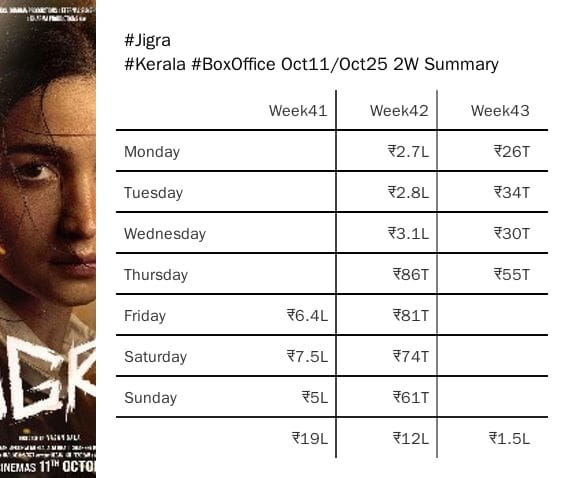
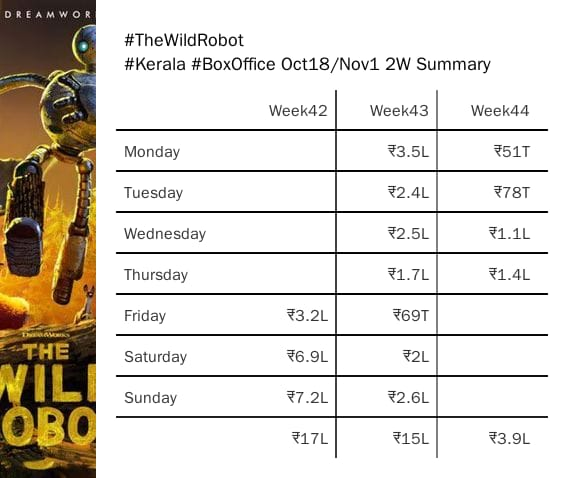
after the-wild-robot summary

diff --git a/weekly.individual.js b/weekly.individual.js
@@ -21,11 +21,11 @@ const collageItemWidth = 96;
 
 (async () => {
   const group = undefined; // []
-  const name = /jigra/i;
-  const displayName = "Jigra";
+  const name = /robot/i;
+  const displayName = "TheWildRobot";
   let image = ""; // bms/ptm image-url
-  const start_date = moment("2024-10-11", ["YYYY-MM-DD"]);
-  const end_date = moment("2024-10-25", ["YYYY-MM-DD"]);
+  const start_date = moment("2024-10-18", ["YYYY-MM-DD"]);
+  const end_date = moment("2024-11-01", ["YYYY-MM-DD"]);
 
   await sync(csvPath); // git clone/pull
   await syncFileInfo(csvPath); // sync folder/file metadata to nedb
@@ -141,8 +141,8 @@ const collageItemWidth = 96;
     Object.keys(i)
       .filter((j) => j.startsWith("_week_"))
       .map((j) => {
-        if (1000 <= i[j])
-          i[j] = `₹${toEnIn(i[j], "en-in", { notation: "compact" })}`;
+        // if (1000 <= i[j])
+        i[j] = `₹${toEnIn(i[j], "en-in", { notation: "compact" })}`;
       });
     dataSource.push("-");
     dataSource.push(i);
